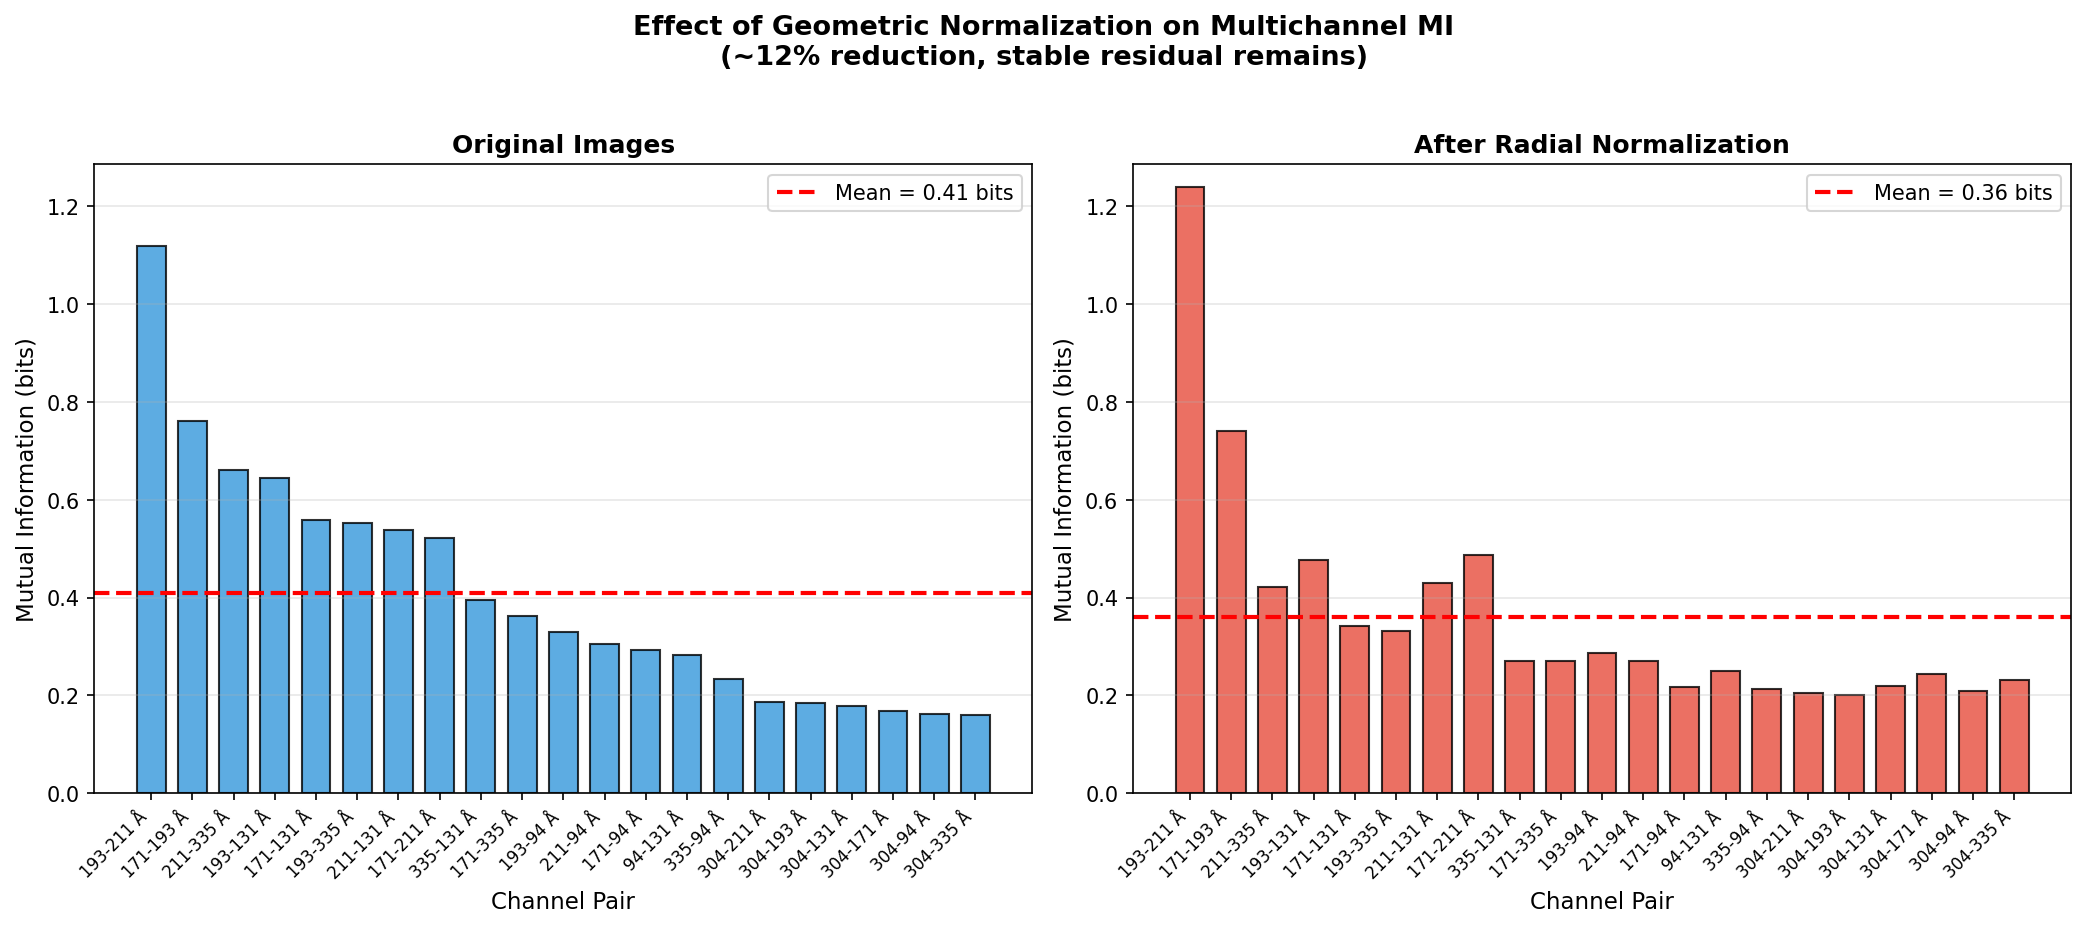
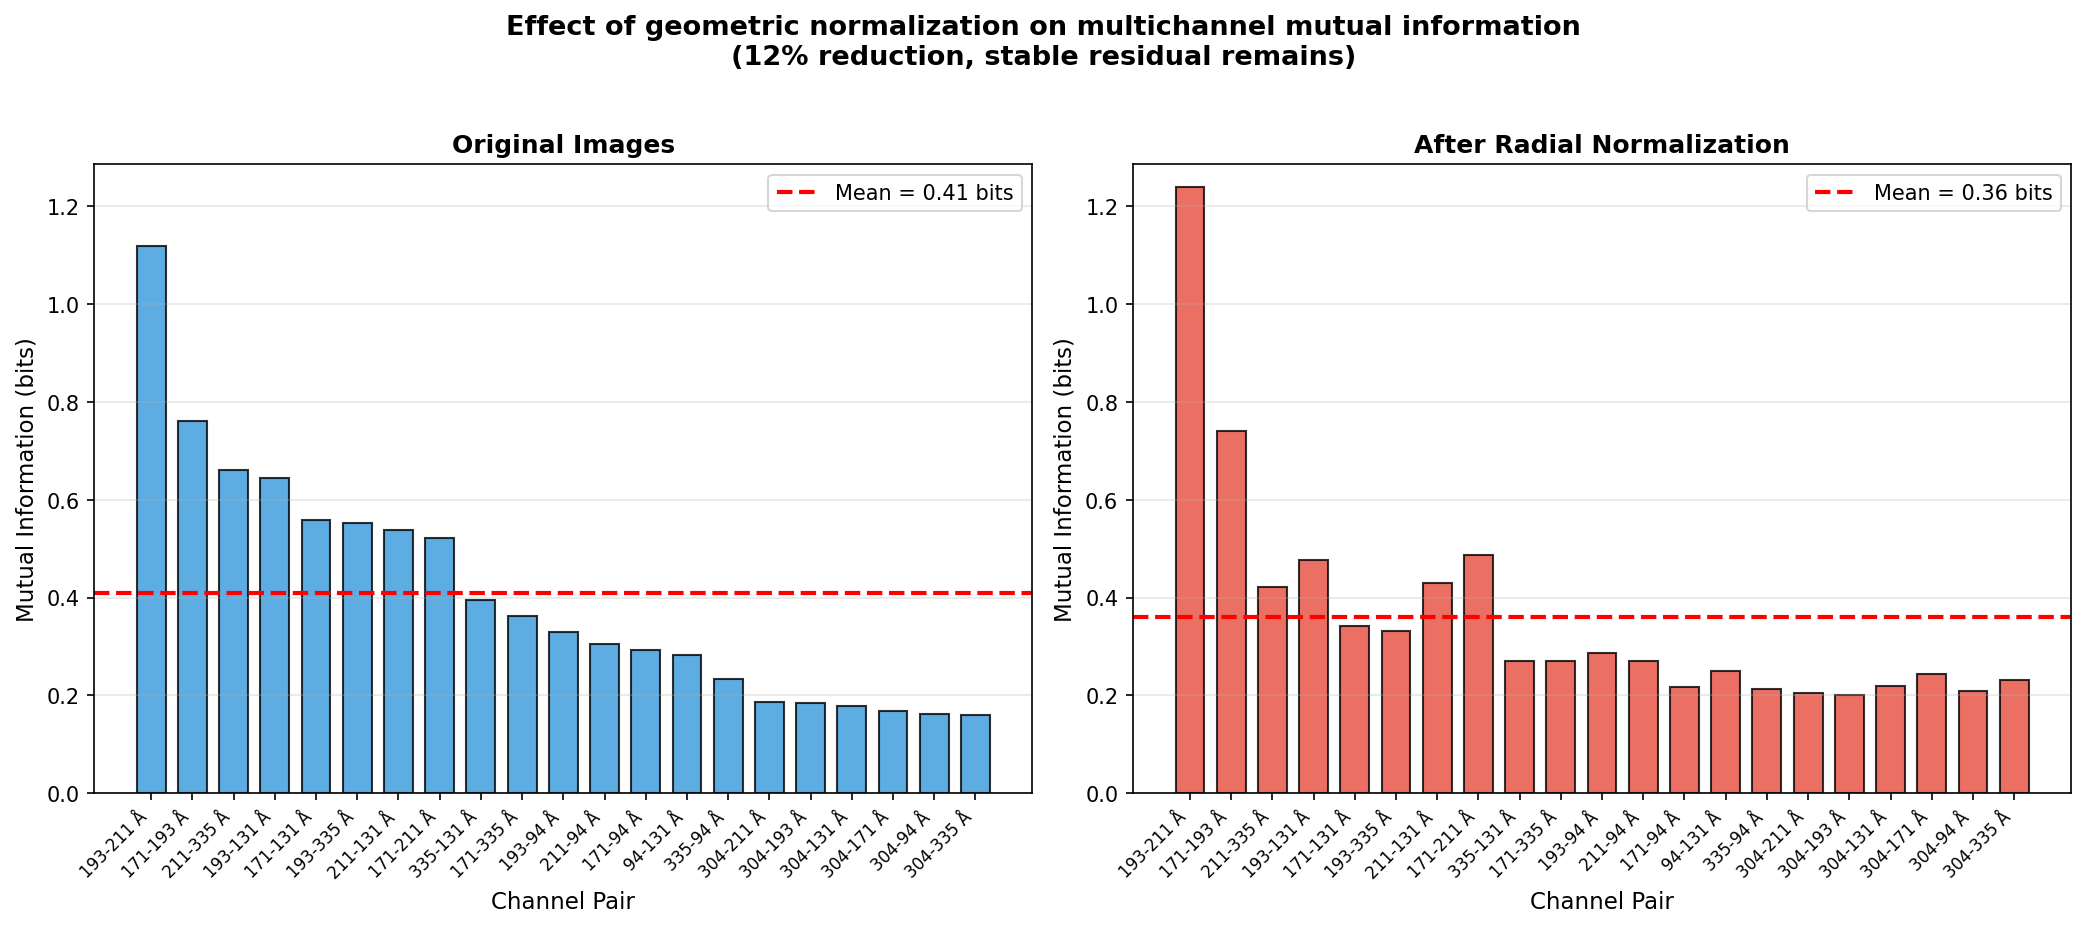
Shorten Figure 1 title for paper style
"Effect of geometric normalization on multichannel mutual information"

🤖 Generated with [Claude Code](https://claude.com/claude-code)

Changed region(s): [[0.2493, 0.0, 0.7478, 0.0938]]

diff --git a/src/solar_seed/visualize.py b/src/solar_seed/visualize.py
@@ -344,8 +344,8 @@ def plot_geometric_normalization(
 
     # Main title
     fig.suptitle(
-        f'Effect of Geometric Normalization on Multichannel MI\n'
-        f'(~{reduction_pct:.0f}% reduction, stable residual remains)',
+        f'Effect of geometric normalization on multichannel mutual information\n'
+        f'({reduction_pct:.0f}% reduction, stable residual remains)',
         fontsize=13, fontweight='bold', y=1.02
     )
 
